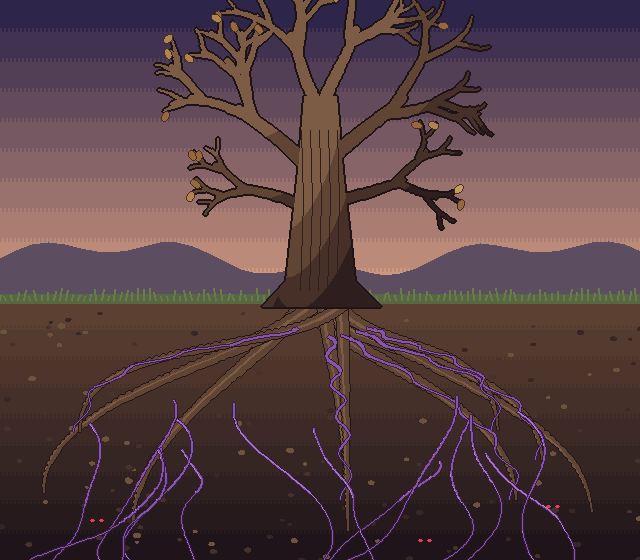
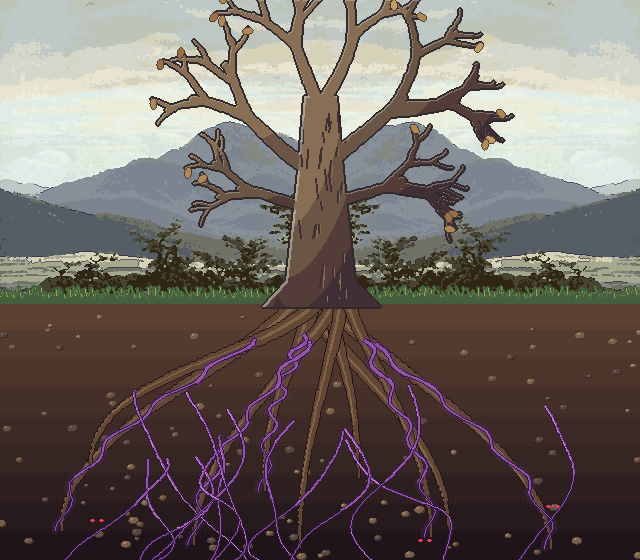
큰 나무 일러스트 위쪽을 Friedrich「외로운 나무」(퍼블릭 도메인)에서: 오른쪽만 잘라 좌우 이어 붙이기, 바탕 하늘 빛 가장자리, 공식 페이지 그림 갱신(0073)
Claude-Session: https://claude.ai/code/session_01VNXEyeHwdhsn4oiHYXtNpM

diff --git a/tools/art/illust.py b/tools/art/illust.py
@@ -69,6 +69,7 @@ def set_style(v2, v4):
     V2 = v2 or v4
     if V2:
         from portraits import hue_shift
+        globals()['hue_shift'] = hue_shift            # 장면 안에서도 쓴다(풀 포기 색)
         globals().update({k: hue_shift(v) for k, v in _BASE.items()})
     else:
         globals().update(_BASE)
@@ -492,14 +493,22 @@ def great_tree():
     rng = random.Random(11)
     cv = Canvas(640, 560)
     ground = 300
-    bands(cv, 0, ground, (46, 38, 74), (206, 150, 126), 10)
-    if V2:
+    if V4:
+        # 0073: 하늘·먼 산·들판은 Caspar David Friedrich「외로운 나무」(1822, 퍼블릭 도메인). 그림 속 나무는 가운데를 비켜
+        # 먼 곳의 다른 나무로 남긴다(큰 나무 줄기가 x 322).
+        # 그림 속 나무가 큰 나무와 겹치지 않게, 나무 오른쪽(산·들판)만 잘라 좌우로 이어 붙인다.
+        pastel_bg(cv, 'friedrich_lone_tree.jpg', colors=18, margin=0.0, box=(0, 0, 640, ground + 2),
+                  crop=(0.6, 0.06, 0.99, 0.74), mirror=True)
+    else:
+        bands(cv, 0, ground, (46, 38, 74), (206, 150, 126), 10)
+    if V2 and not V4:
         # 대기 원근: 먼 산줄기 한 겹 더(하늘색 쪽으로 밝게)
         far = poly(cv, [(0, 236)] + [(x, 232 - 22 * math.sin(x / 110 + 1.3) - 9 * math.sin(x / 37)) for x in range(0, 641, 16)] + [(640, ground), (0, ground)])
         cv.paint(far, (146, 110, 128))
     # 먼 언덕
-    hill = poly(cv, [(0, 262)] + [(x, 258 - 14 * math.sin(x / 70) - 8 * math.sin(x / 23)) for x in range(0, 641, 16)] + [(640, ground), (0, ground)])
-    cv.paint(hill, (92, 78, 96))
+    if not V4:
+        hill = poly(cv, [(0, 262)] + [(x, 258 - 14 * math.sin(x / 70) - 8 * math.sin(x / 23)) for x in range(0, 641, 16)] + [(640, ground), (0, ground)])
+        cv.paint(hill, (92, 78, 96))
     # 땅속 흙 띠
     bands(cv, ground, 560, (92, 64, 50), (30, 20, 26), 9)
     if V2:
@@ -546,6 +555,7 @@ def great_tree():
     for x, y in ((92, 520), (548, 506), (420, 540)):
         for dx in (0, 9):
             cv.paint(ellipse(cv, x + dx, y, 2.2, 1.6), (230, 60, 90))
+    base = cv.px.copy()
     # 나무 줄기: 밑동이 벌어진 줄기 + 갈라지며 가늘어지는 가지(0049). 예전엔 굵기가 같은 곡선 여섯 개라 사슴뿔처럼 보였다.
     trunk = poly(cv, [(262, ground + 6), (286, ground - 20), (298, 170), (304, 96), (336, 96), (342, 170),
                       (354, ground - 20), (380, ground + 6)])
@@ -592,8 +602,12 @@ def great_tree():
             cv.paint(crack, BARK[0])
             cv.paint(stroke(cv, [(x + 2, y + 1), (x + 2, y + ln - 1)], 1) & trunk & ~crack, BARK[3])
         # 가는 가지까지 2px이면 주황 테두리처럼 보인다: 줄기만 2px, 가지는 1px을 옅게.
-        rim_light(cv, trunk, SUNSET_RIM, 2, within=trunk & ~branch_only)
-        rim_light(cv, trunk, SUNSET_RIM, 1, 0.45, within=branch_only)
+        rim = SUNSET_RIM
+        if V4:   # 바탕 그림의 하늘 빛(노을이 아니다)
+            sky = base[:120].reshape(-1, 3).mean(0)
+            rim = tuple(min(255, v * 1.05) for v in sky)
+        rim_light(cv, trunk, rim, 2, 0.5 if V4 else 1.0, within=trunk & ~branch_only)
+        rim_light(cv, trunk, rim, 1, 0.35 if V4 else 0.45, within=branch_only)
     else:
         for k in range(5):
             x = 300 + k * 9
@@ -604,6 +618,8 @@ def great_tree():
             m = ellipse(cv, x + rng.uniform(-3, 3), y + rng.uniform(1, 5), 5, 3, rot=rng.uniform(0, 3))
             cv.paint(dilate(m) & ~m, (70, 46, 34))
             cv.paint(m, rng.choice([(176, 132, 74), (150, 104, 60), (196, 156, 92)]))
+    if V4:
+        ambient_tint(cv, base, 0.14, light_from=(0, ground))
     return cv
 
 
@@ -934,20 +950,31 @@ def sprout():
 SOURCES = os.path.join(os.path.dirname(os.path.abspath(__file__)), 'sources')
 
 
-def pastel_bg(cv, name, colors=18, edge=30, margin=0.04):
+def pastel_bg(cv, name, colors=18, edge=30, margin=0.04, box=None, crop=None, mirror=False):
     """바탕을 파스텔·수채 그림에서(0073): tools/pixel의 --cel과 같은 길(단순화 → 면 나누기 → 다수결 축소 → 큰 면 1px 선).
     원본은 tools/art/sources/(CC0·퍼블릭 도메인, 출처는 assets/LICENSES.md). 인물과 같은 칸 크기로 만든다(믹셀 피하기)."""
     sys.path.insert(0, os.path.join(os.path.dirname(os.path.abspath(__file__)), '..', 'pixel'))
     from pxl import cel_pixelate, prepare
-    src = prepare(Image.open(os.path.join(SOURCES, name)).convert('RGB'), cv.w, cv.h, margin, 1.1, 1.1)
-    img, _ = cel_pixelate(src, cv.w, cv.h, colors, edge)
-    cv.px[:] = np.asarray(img, dtype=np.float32)
+    x0, y0, x1, y1 = box or (0, 0, cv.w, cv.h)      # 캔버스에서 채울 칸
+    src = Image.open(os.path.join(SOURCES, name)).convert('RGB')
+    if crop:                                          # 원본에서 쓸 부분(비율)
+        w, h = src.size
+        src = src.crop((int(crop[0] * w), int(crop[1] * h), int(crop[2] * w), int(crop[3] * h)))
+    if mirror:                                        # 좌우로 이어 붙여 넓힌다(이음매는 가운데 — 큰 것이 가리는 자리)
+        wide = Image.new('RGB', (src.width * 2, src.height))
+        wide.paste(src.transpose(Image.FLIP_LEFT_RIGHT), (0, 0))
+        wide.paste(src, (src.width, 0))
+        src = wide
+    src = prepare(src, x1 - x0, y1 - y0, margin, 1.1, 1.1)
+    img, _ = cel_pixelate(src, x1 - x0, y1 - y0, colors, edge)
+    cv.px[y0:y1, x0:x1] = np.asarray(img, dtype=np.float32)
 
 
-def ambient_tint(cv, base, amount=0.15):
-    """바탕 위에 얹은 것(바탕과 달라진 칸)에 바탕의 평균 빛을 조금 섞는다: 그림 속 공기에 함께 들어가 스티커처럼 뜨지 않게."""
+def ambient_tint(cv, base, amount=0.15, light_from=None):
+    """바탕 위에 얹은 것(바탕과 달라진 칸)에 바탕의 평균 빛을 조금 섞는다: 그림 속 공기에 함께 들어가 스티커처럼 뜨지 않게.
+    light_from(y0, y1)이면 그 줄들의 평균을 빛으로(예: 하늘만)."""
     changed = np.abs(cv.px - base).sum(-1) > 0
-    amb = base.reshape(-1, 3).mean(0)
+    amb = (base if light_from is None else base[light_from[0]:light_from[1]]).reshape(-1, 3).mean(0)
     cv.px[changed] = cv.px[changed] * (1 - amount) + amb * amount
 
 
@@ -1157,7 +1184,7 @@ SCENES = {
 
 
 # 장면마다 그림 방식(v2, v4). 하나씩 바꾼다(0073): 파스텔 바탕으로 바꾼 장면은 v4.
-SCENE_STYLE = {'molehill': (True, True)}
+SCENE_STYLE = {'molehill': (True, True), 'great_tree': (True, True)}
 
 
 def main():

diff --git a/assets/LICENSES.md b/assets/LICENSES.md
@@ -11,7 +11,8 @@
 | `art/portraits.png` | 직접 그림. 원본 `tools/art/portraits.py` | © 2026 Beardworks | 대화창 초상화 88×88, 한 줄 12칸(Naïl 털빛 3 × 표정 4 포함, Naïl 표정 4 + 이웃 그림자 + 라쿤 포포 2 + 물든 모모 2 + 들쥐 대장·보리 3 + 돌아온 모모 3 + 누룩 할매 2 + 엄마 두더지 1 + 도토 3 + 수수 2 + 콩이 3) |
 | `art/critters.png` | 직접 그림. 원본 `tools/art/critters.py` | © 2026 Beardworks | 적(물든 들쥐·생쥐·시궁쥐·다람쥐·청설모)·허수아비·라쿤 포포·물든 모모·돌아온 모모·도토·돌아온 도토·수수·콩이·돌아온 콩이 16×16 + 흰 실루엣. v2 손으로 찍은 자세 |
 | `art/chief.png` | 직접 그림. 원본 `tools/art/chief.py` | © 2026 Beardworks | 튜토리얼 보스 들쥐 대장(물든 모습 8칸)·돌아온 보리(5칸) 32×32 + 흰 실루엣 |
-| `art/illust/*.png` | 직접 그림(임시). 원본 `tools/art/illust.py` | © 2026 Beardworks(molehill 바탕은 아래 Korb 파스텔, CC0) | 컷씬 일러스트 9장 640×360(2배 밀도, 일부는 패닝용으로 더 큼). 사람이 그린 그림으로 바꾸면 이 행을 작가·계약으로 고친다(docs/art/cutscene-illustrations.md) |
+| `art/illust/*.png` | 직접 그림(임시). 원본 `tools/art/illust.py` | © 2026 Beardworks(molehill·great_tree 바탕은 아래 Korb·Friedrich 그림, CC0·퍼블릭 도메인) | 컷씬 일러스트 9장 640×360(2배 밀도, 일부는 패닝용으로 더 큼). 사람이 그린 그림으로 바꾸면 이 행을 작가·계약으로 고친다(docs/art/cutscene-illustrations.md) |
+| `tools/art/sources/friedrich_lone_tree.jpg` → `art/illust/great_tree.png` 바탕 | Caspar David Friedrich, *Der einsame Baum*(외로운 나무), 유화, 1822, Alte Nationalgalerie 소장. 복제 사진 [Wikimedia Commons: Google Art Project](https://commons.wikimedia.org/wiki/File:Caspar_David_Friedrich_-_Der_einsame_Baum_-_Google_Art_Project.jpg) 1280px 썸네일을 960px로 줄임(2026-10-26) | 퍼블릭 도메인(작가 1840년 사망, Commons 표기 Public domain. 2차원 작품의 충실한 복제라 새 저작권 없음) | 큰 나무 일러스트 위쪽 하늘·산·들판(0073). 그림의 오른쪽 부분만 잘라 좌우로 이어 붙이고 도트화. 이음매는 큰 나무 줄기 뒤 |
 | `tools/art/sources/korb_danube.jpg` → `art/illust/molehill.png` 바탕 | Erzsébet Korb, *Untitled (Landscape with the Danube)*, 파스텔, ca. 1920–22, The Met 2026.21.19 [소장품 페이지](https://www.metmuseum.org/art/collection/search/927415) (`images.metmuseum.org` web-large, 2026-10-26) | CC0(Met Open Access, API `isPublicDomain: true`) | 흙더미 일러스트 바탕(0073). `illust.py`가 도트화(단순화 → 면 나누기 → 1px 외곽선)하고 그 위에 마을·어린 나무·둔덕·엄마 두더지를 그린다. 출처 표시 의무는 없지만 남긴다 |
 | `art/tiles.png` | 직접 그림. 원본 `tools/art/tiles.py` | © 2026 Beardworks | Sunnyside가 들어오기 전 대체 타일(풀·꽃·흙·벼랑·그루터기·바위·버섯·뿌리·얼룩) |
 | `site/img/s_*.png` | 게임 스크린숏(`tools/site/shots.js`) | 게임 화면 | 공식 페이지용(0069). Sunnyside 그림이 **게임 화면 안에** 들어 있다. 팩 원본 파일이 아니고 칸을 꺼낼 수 없는 합성 화면이라, 게임 소개 용도로 둔다. `site/img/p_*`·`i_*`는 직접 그린 그림을 자르거나 복사한 것(`tools/site/make_images.py`) |

diff --git a/docs/decisions/0073-illust-pastel-backgrounds.md b/docs/decisions/0073-illust-pastel-backgrounds.md
@@ -1,7 +1,7 @@
 # 0073. 일러스트 바탕을 파스텔·수채 그림에서, 한 장씩 바꾼다
 
 - 날짜: 2026-10-26
-- 상태: 채택(첫 장: molehill)
+- 상태: 채택(molehill, great_tree)
 
 ## 배경
 코드로 도형을 쌓은 일러스트 바탕(띠 하늘·타원 언덕)은 평평하고 임시 그림 티가 난다. 사장 제안으로 그림·사진을 도트화해 시험했다(0070 `pixelate --cel`). 사장이 보고 짚은 대로 **파스텔·수채 그림이 가장 잘 맞았다.**
@@ -22,8 +22,13 @@
   - 잎도 털처럼(삐침 + 단 경계 톱니, 매끈한 공 잎은 풍선으로 읽혔다)
 - 첫 장 molehill: 바탕은 Erzsébet Korb「도나우 풍경」(파스텔, ca. 1920–22, Met CC0)이다. 길이 모이는 곳에 어린 나무, 길 끝 언덕에 마을 둥근 문, 오른쪽 들판에 새 둔덕, 왼쪽 길섶에 엄마 두더지를 둔다.
 
+## 둘째 장 great_tree(2026-10-26)
+- 위쪽 300줄(하늘·먼 산·들판)만 Friedrich「외로운 나무」(1822, 퍼블릭 도메인, Wikimedia)로 바꿨다. 땅속(흙·뿌리·보라 실·붉은 눈)과 큰 나무는 v4 코드 그림 그대로다.
+- 그림 속 나무가 큰 나무 바로 뒤에 겹쳐 가지가 어지러웠다. 그래서 나무 오른쪽(산·들판)만 잘라 **좌우로 이어 붙였다**(`pastel_bg(mirror=True)`). 이음매는 가운데 큰 나무 줄기 뒤라 안 보인다. 이어 붙인 자리에 대칭 봉우리가 생겨, 큰 나무 뒤에 선 산이 됐다.
+- 줄기 가장자리 빛은 노을빛(v2) 대신 바탕 하늘 빛으로, 세기를 반으로 줄였다. 낮 하늘에 노을 테두리는 어긋난다.
+- 위쪽에만 바탕 빛 14%를 섞는다(`ambient_tint(light_from=(0, 300))`).
+
 ## 다음 후보
-- great_tree: 터너「오래된 참나무」 수채, 또는 프리드리히「외로운 나무」. 패닝용 640×560이라 세로로 긴 원본이 필요하다.
 - last_bloom: 블룸「봄 풍경」 파스텔. 종이 황토색 보정이 필요하다.
 - bori_freed: 코르브 들판 또는 해질녘 하늘.
 - 땅속 장면(굴·깊은 곳)에 맞는 그림은 아직 못 찾았다.
